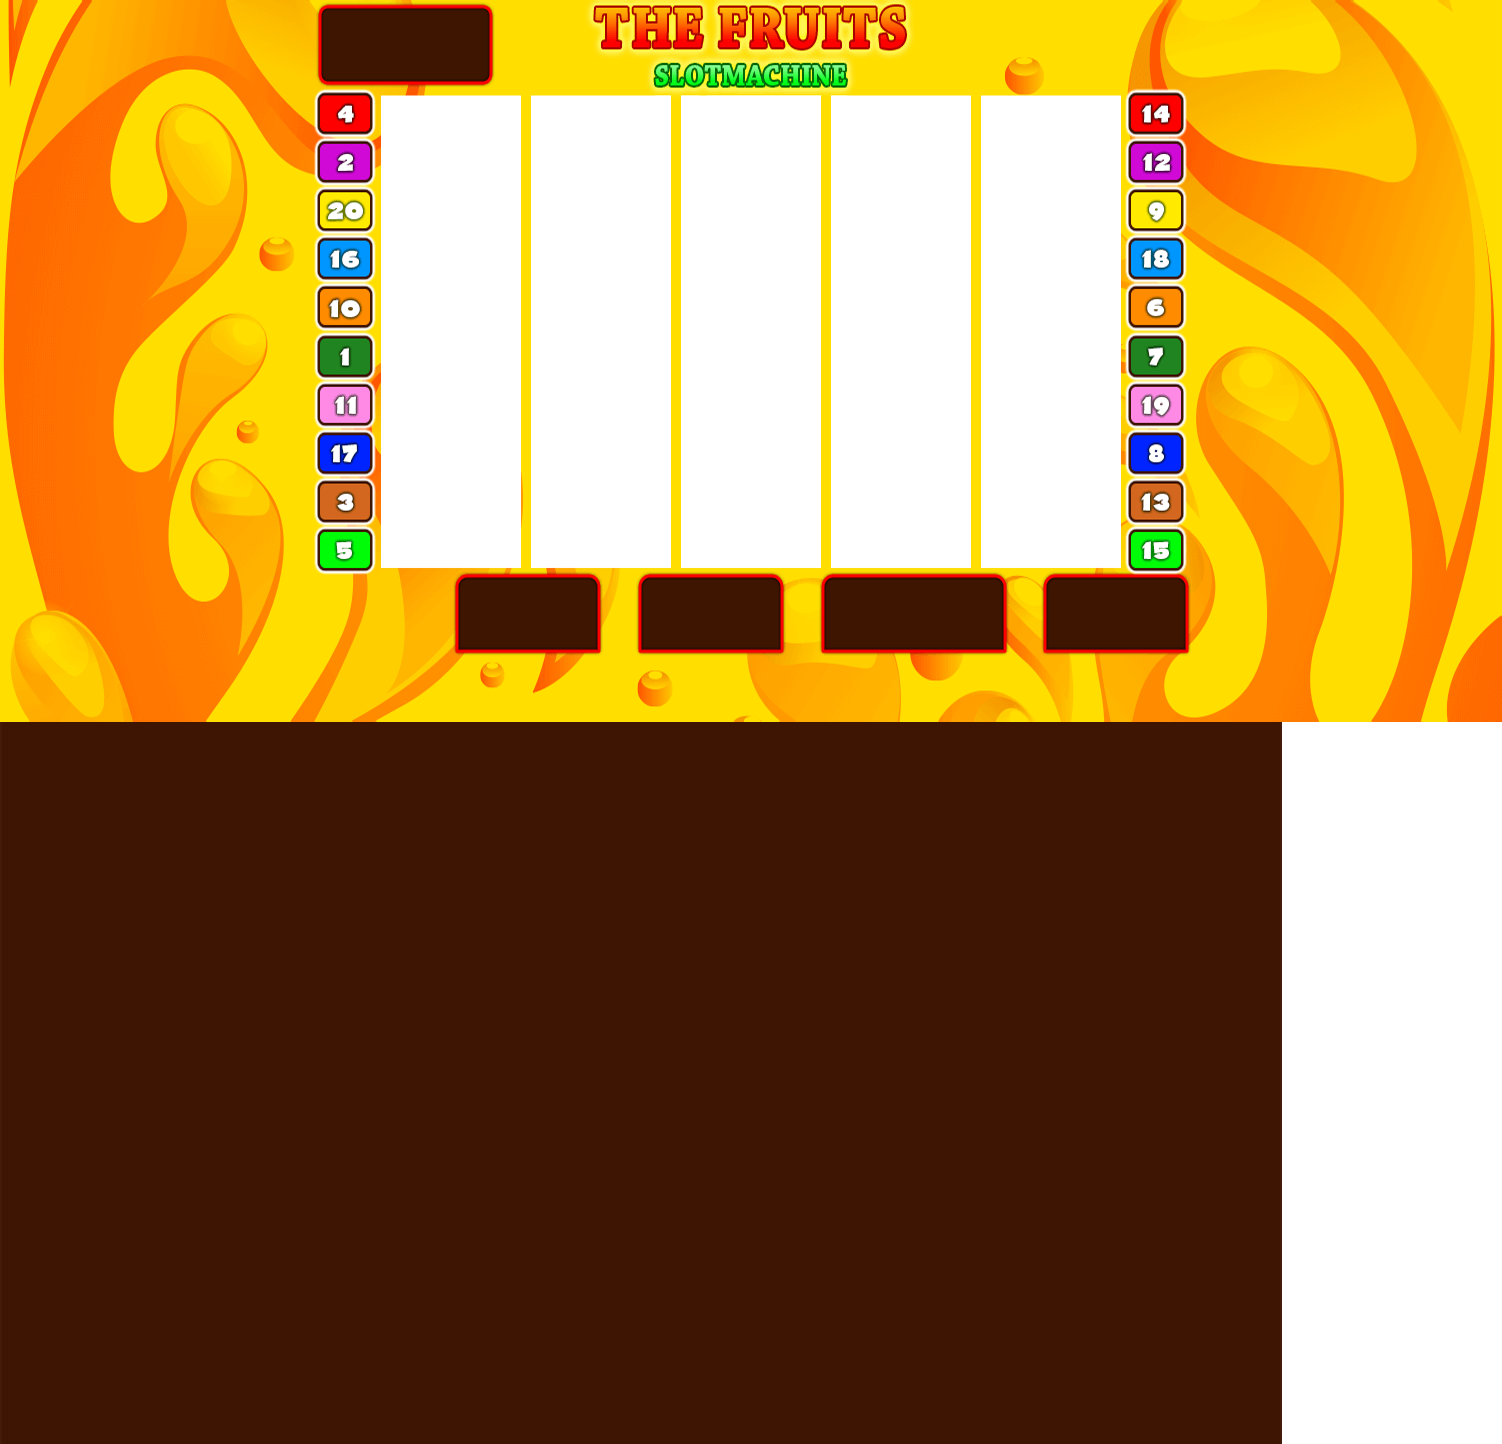
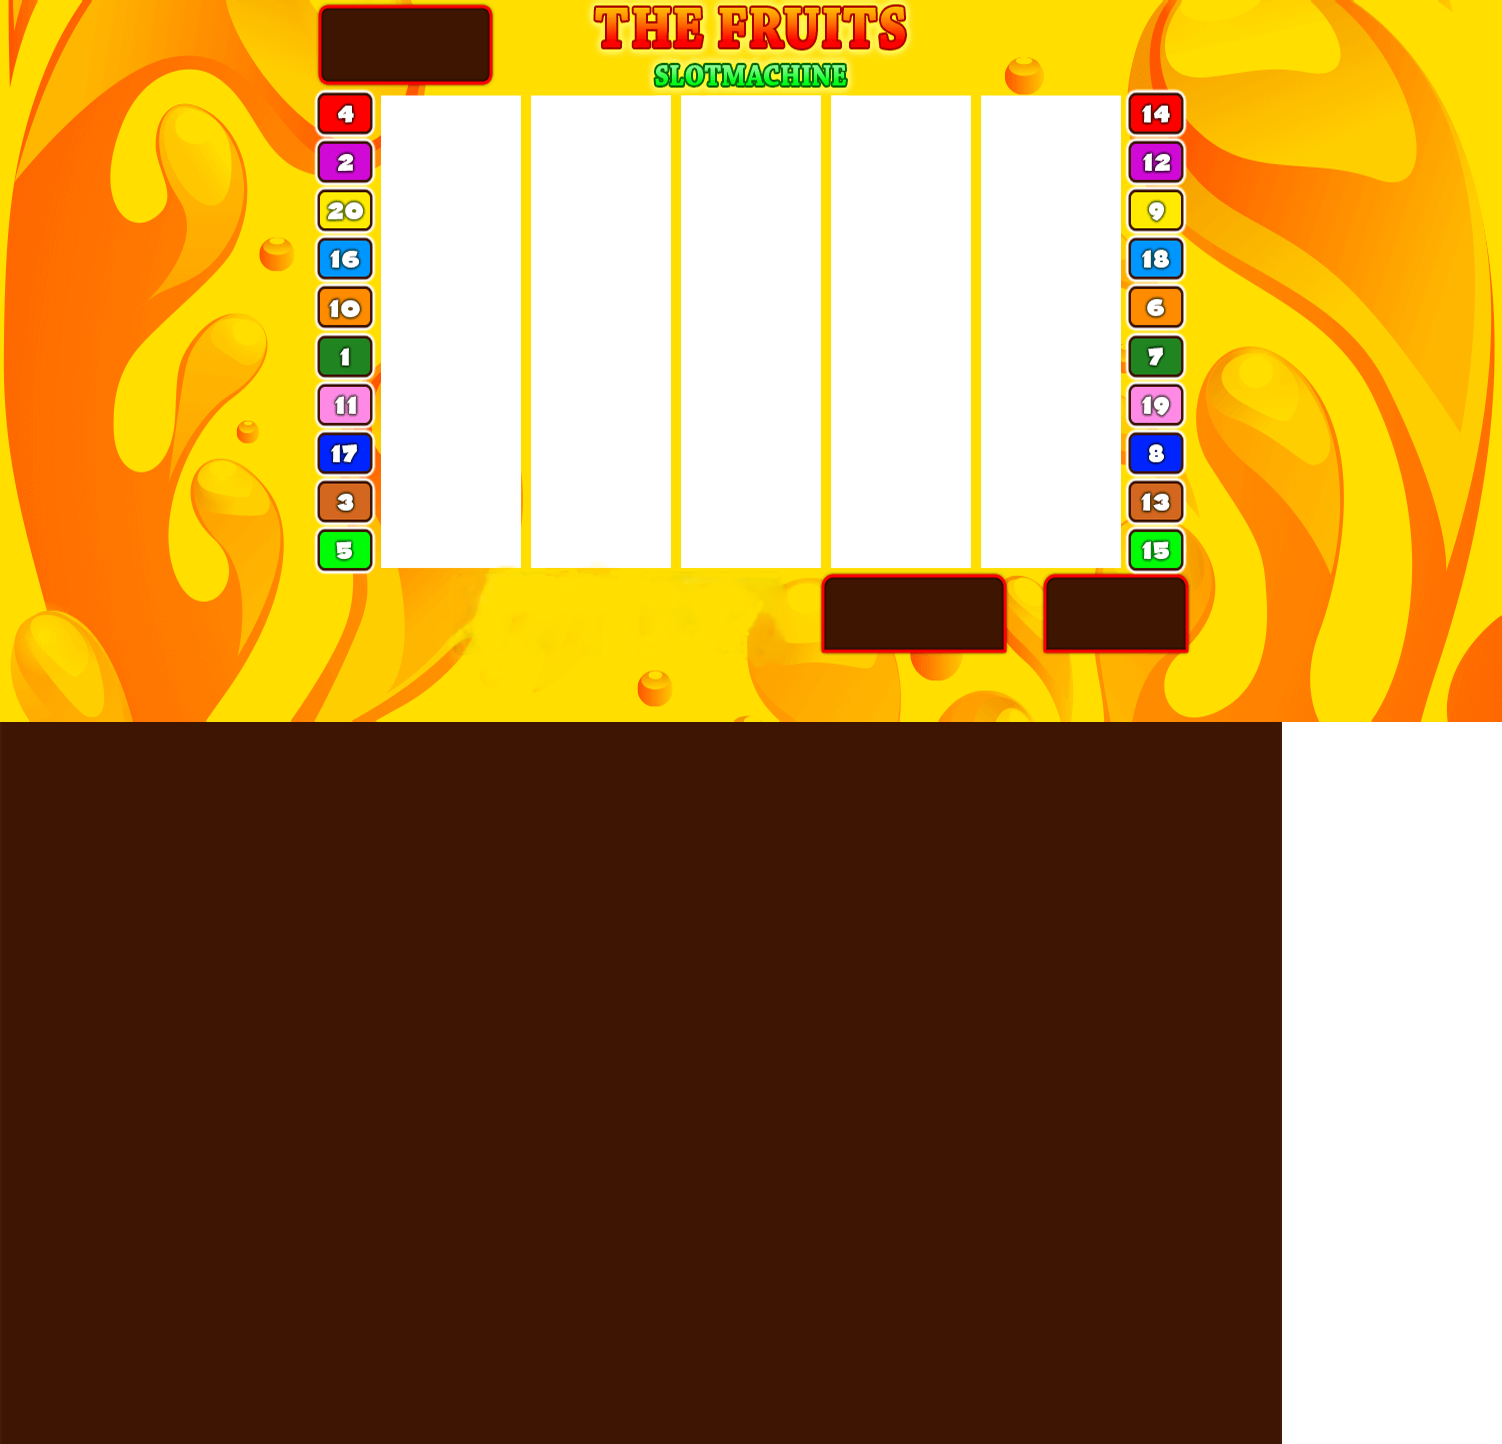
fix buttons

Changed region(s): [[0.2756, 0.374, 0.5206, 0.4986]]

diff --git a/src/base_classes/score.js b/src/base_classes/score.js
@@ -1,25 +1,68 @@
 import explode from './explode';
+import Options from '../options';
+import Config from '../config';
 function Score(scene) {
     this._scene = scene;
     this._minTumbleCount = 4;
+    this._tempMony = 0;
 }
 Score.prototype = {
-    calculate: function () {
+    calculate: function (isPreviouslyWin) {
         const cons = this._scene.containers;
         const symbols = {};
         //fill symbols
         cons.loop((con, i) => {
             const { order, columnIndex } = con.options;
             if (order < cons.columnViewportLength) {
-                symbols[con.imgName] = symbols[con.imgName] || [];
-                symbols[con.imgName].push({ columnIndex, order });
+                const imgName = con.imgName;
+                symbols[imgName] = symbols[imgName] || [];
+                symbols[imgName].push({ columnIndex, order, imgName });
             }
         });
         //get symbols with more than 3 iteration
-        const result = Object.values(symbols).filter((value) => value.length >= this._minTumbleCount).reduce((ac, value) => ac.concat(value), []);
-        result.length ? this.win(result) : this.fail();
+        const iteratedSymbols = Object.values(symbols).filter((value) => value.length >= this._minTumbleCount);
+        const result = iteratedSymbols.reduce((ac, value) => ac.concat(value), []);
+        this._saveMony(iteratedSymbols);
+        result.length ? this.explode(result) : isPreviouslyWin ? this.win() : this.fail();
     },
-    win: function (arr) {
+    _saveMony: function (arr) {
+        arr.forEach(item => {
+            const symbolIndex = parseInt(item[0].imgName.split('_')[1]);
+            const payArray = Options.payvalues[symbolIndex];
+            const payArrayIndex = item.length > 4 ? 2 : 1;
+            this._tempMony += payArray[payArrayIndex];
+        })
+    },
+    _setTextWidthWin: function (monyWin) {
+        let width;
+        if (monyWin >= 100000)
+            width = Config.width - 340;
+        else if (monyWin >= 10000)
+            width = Config.width - 335;
+        else if (monyWin >= 1000)
+            width = Config.width - 330;
+        else if (monyWin >= 100)
+            width = Config.width - 322;
+        else
+            width = Config.width - 340;
+        return width;
+    },
+    win: function () {
+        this._scene.baseSpin.ready();
+        // set txtWin
+        this._scene.txtWin && this._scene.txtWin.destroy();
+        const width = this._setTextWidthWin(this._tempMony);
+        this._scene.txtWin = this._scene.add.text(width, Config.height - 130, 'WIN: ' + this._tempMony + ' $ ', {
+            fontSize: '20px',
+            color: '#25a028',
+            fontFamily: 'PT Serif'
+        });
+        // set valueMoney
+        this._scene.valueMoney += (this._tempMony);
+        this._scene.txtMoney.setText(this._scene.valueMoney + '$');
+        this._tempMony = 0;
+    },
+    explode: function (arr) {
         for (let i = 0, length = arr.length, lastIndex = length - 1; i <= lastIndex; i++) {
             const { columnIndex, order } = arr[i];
             const con = this._scene.containers.getContainer(columnIndex, order);
@@ -30,6 +73,10 @@ Score.prototype = {
             });
         }
     },
-    fail: function () { this._scene.baseSpin.ready(); },
+    fail: function () {
+        this._scene.baseSpin.ready();
+        this._scene.txtWin && this._scene.txtWin.destroy();
+        this._tempMony = 0;
+    },
 };
 export default Score;

diff --git a/src/base_scenes/Game.js b/src/base_scenes/Game.js
@@ -25,31 +25,26 @@ export default class GameScene extends Phaser.Scene {
         Options.hsv = Phaser.Display.Color.HSVColorWheel();
         //add bg image
         const bg = new Sprite(this, Config.width / 2, Config.height / 2, 'background', 'bg.jpg');
-        bg.setDepth(0);
+        bg.setDepth(-1);
         //container
         this.containers = new Containers(this);
         //add image machine
         const machine = new Sprite(this, Config.width / 2, Config.height / 2, 'background', 'machine.png');
-        machine.setDepth(1);
+        machine.setDepth(0);
         // add Hero
         this.hero = this.add.spine(120, 580, "hero", "hero-atlas");
         this.hero.animationState.setAnimation(0, "idle", true);
-        this.hero.setDepth(2);
+        this.hero.setDepth(0);
         // Evalute
         this.score = new Score(this);
         //
-        this.valueMoney = localStorage.getItem('money') ? localStorage.getItem('money') :
-            Options.money;
+        this.valueMoney = Options.money;
         this.txtMoney = this.add.text(Config.width - 1050, Config.height - 695, this.valueMoney + '$', {
             fontSize: '30px',
             color: '#fff',
             fontFamily: 'PT Serif'
         });
         this.setTextX(this.valueMoney);
-        //Class Clock
-        this.times = new Time(this);
-        //Class Credit
-        this.credits = new Credit(this);
         //Add sound image
         const musicName = localStorage.getItem('music') ? localStorage.getItem('music')
             : 'btn_music_off.png';
@@ -65,23 +60,14 @@ export default class GameScene extends Phaser.Scene {
         if (this.audioMusicName === 'btn_music.png') {
             this.audioObject.musicDefault.play();
         }
-        //Class Coin
-        this.coin = new Coin(this);
-        //Class Line
-        this.btnLine = new Line(this);
         //Class Maxbet
         this.maxBet = new Maxbet(this);
         //Class Info
         this.info = new Info(this);
-        //Class AutoSpin
-        this.autoSpin = new AutoSpin(this);
         //Class BaseSpin
         this.baseSpin = new BaseSpin(this);
     }
     update() {
-        // this.player.x = 500;
-        // this.player.y = 320;
-        // this.player.anims.play('explode', true);
         this.containers.update();
     }
     onMusic() {

diff --git a/src/base_classes/Maxbet.js b/src/base_classes/Maxbet.js
@@ -5,35 +5,13 @@ import Sprite from './Sprite';
 export default class Maxbet {
     constructor(scene) {
         this.scene = scene;
-        this.addMaxbet();
-    }
-
-    addMaxbet() {
         this.maxBet = new Sprite(this.scene, Config.width - 477, Config.height - 50, 'bgButtons', 'btn-maxbet.png');
         this.txtMaxBet = this.scene.add.dynamicBitmapText(Config.width - 550, Config.height - 70, 'txt_bitmap', Options.txtMaxBet, 38);
         this.txtMaxBet.setDisplayCallback(this.scene.textCallback);
-        this.txtCountMaxBet = this.scene.add.text(Config.width - 555, Config.height - 140, 'BET: ' + Options.coin * Options.line, {
-            fontSize : '35px',
-            color : '#fff',
-            fontFamily : 'PT Serif'
+        this.txtCountMaxBet = this.scene.add.text(Config.width - 555, Config.height - 140, 'BET: ' + Options.bet, {
+            fontSize: '35px',
+            color: '#fff',
+            fontFamily: 'PT Serif'
         });
-        //pointer down
-        this.maxBet.on('pointerdown', this.onMaxbet, this);
-        //pointer up
-        this.maxBet.on('pointerup', () => this.maxBet.setScale(1));
-    }
-
-    onMaxbet() {
-        if (!Options.checkClick && Options.line * Options.coin
-            < 1000 && Options.txtAutoSpin === 'AUTO') {
-            this.maxBet.setScale(0.9);
-            //play audio button
-            this.scene.audioPlayButton();
-            Options.line = 20;
-            this.scene.btnLine.txtCountLine.setText(Options.line);
-            Options.coin = 50;
-            this.scene.coin.txtCountCoin.setText(Options.coin);
-            this.txtCountMaxBet.setText('BET: ' + Options.line * Options.coin);
-        }
     }
 }

diff --git a/src/base_classes/Containers.js b/src/base_classes/Containers.js
@@ -23,7 +23,7 @@ Containers.prototype = {
             },
             op
         ));
-        con.setDepth(0);
+        con.setDepth(-1);
         this.list[columnIndex] = this.list[columnIndex] || [];
         this.list[columnIndex][order] = con;
     },
@@ -106,7 +106,7 @@ Containers.prototype = {
                 this._createContainer(columnIndex, i, {
                     offsetY: outsideCellOrder * Options.symbolHeight,
                     enableFallDetection: enableFallDetection && i === this.columnViewportLength - 1,
-                    onFall: () => { this._scene.score.calculate() }
+                    onFall: () => { this._scene.score.calculate(true) }
                 });
             }
         });

diff --git a/src/options.js b/src/options.js
@@ -1,6 +1,7 @@
 //Options
 export default {
 	money: 100000,
+	bet: 50,
 	txtSpin: 'SPIN',
 	txtAutoSpin: 'AUTO',
 	txtAuto: 5,
@@ -19,16 +20,16 @@ export default {
 	hsv: [],
 	//values symbols0 ==> symbols9
 	payvalues: [
-		[100, 150, 200],
-		[50, 100, 150],
-		[25, 50, 100],
-		[25, 50, 100],
-		[15, 25, 50],
-		[10, 20, 35],
-		[10, 15, 25],
-		[10, 15, 20],
-		[5, 10, 20],
-		[3, 8, 18]
+		[0, 150, 200],
+		[0, 100, 150],
+		[0, 50, 100],
+		[0, 50, 100],
+		[0, 25, 50],
+		[0, 20, 35],
+		[0, 15, 25],
+		[0, 15, 20],
+		[0, 10, 20],
+		[0, 8, 18]
 	],
 	//max payline 20
 	payLines: [

diff --git a/src/base_classes/BaseSpin.js b/src/base_classes/BaseSpin.js
@@ -47,7 +47,7 @@ export default class BaseSpin {
         //     sixMealManSpine.animationState.setAnimation(0, "Idle Smile", true);
         // }
         //set money
-        this.scene.valueMoney -= (Options.coin * Options.line);
+        this.scene.valueMoney -= (Options.bet);
         this.scene.txtMoney.setText(this.scene.valueMoney + '$');
         //remove text txtwin
         if (this.scene.txtWin) {
